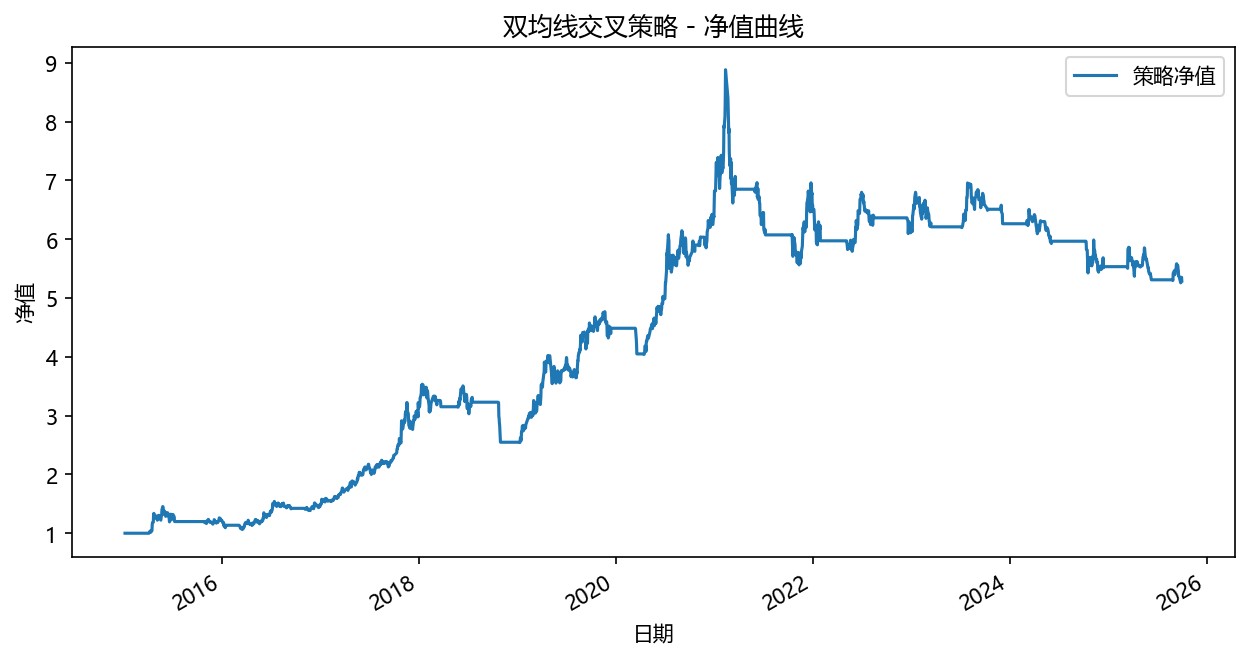
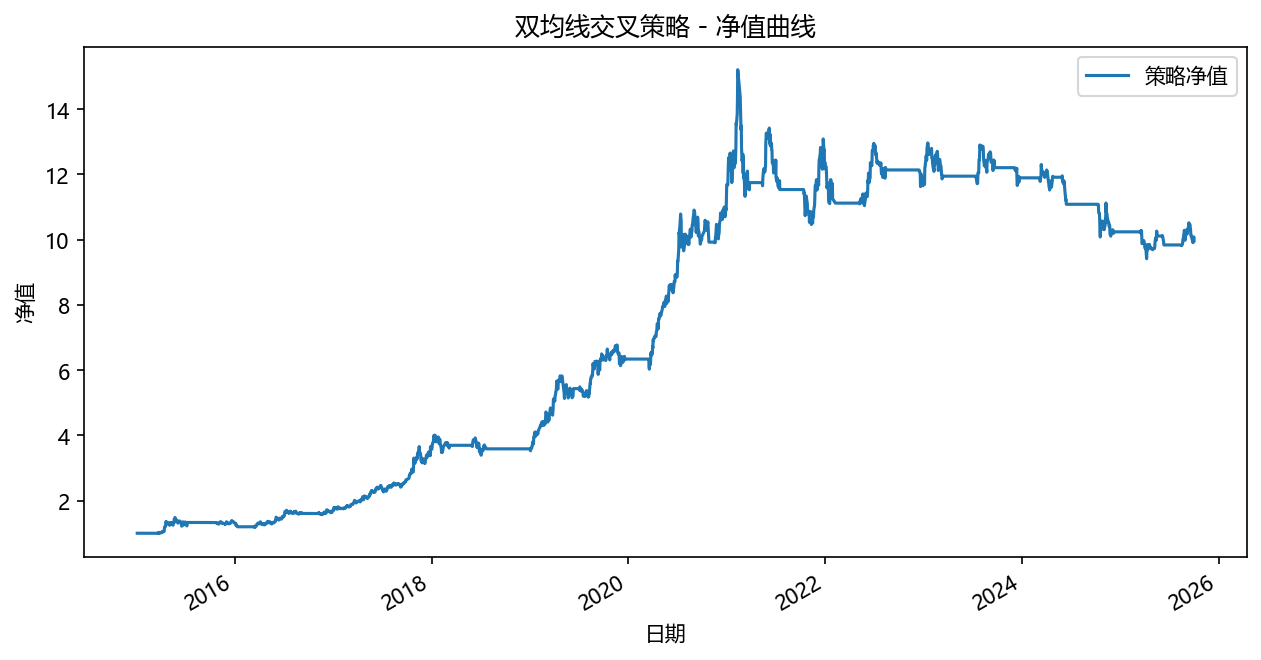
Upgrade SMA crossover strategy

diff --git a/src/runner.py b/src/runner.py
@@ -13,6 +13,7 @@ from .strategies import (
     weights_momentum_rotation,
     weights_momentum_low_vol_score,
     weights_risk_parity,
+    weights_enhanced_sma_crossover,
     weights_sma_crossover,
     weights_trend_filtered_momentum,
 )
@@ -31,6 +32,7 @@ def _baseline_nav(cfg: BacktestConfig, index) -> pd.Series:
 def run_sma(cfg: BacktestConfig):
     params = cfg.strategies.get("sma", {})
     s = get_close_series(cfg.baseline, start=cfg.start, end=cfg.end, adjust=cfg.adjust, cache_dir=cfg.cache_dir)
+    run_sma_grid_search(cfg, s)
     w = weights_sma_crossover(
         s,
         short_window=params.get("short_window", 20),
@@ -44,6 +46,65 @@ def run_sma(cfg: BacktestConfig):
     met = summary_table(res)
     met.to_csv(os.path.join(cfg.output_rep_dir, "sma_指标.csv"), index=False, encoding="utf-8-sig")
     return res, met
+
+
+def run_sma_grid_search(cfg: BacktestConfig, close: pd.Series) -> pd.DataFrame | None:
+    params = cfg.strategies.get("sma", {})
+    grid = params.get("grid_search", {})
+    if not grid.get("enabled", False):
+        return None
+
+    close_df = pd.concat([close, pd.Series(1.0, index=close.index, name="CASH")], axis=1)
+    rows = []
+    for short_window in grid.get("short_windows", [10, 20, 30]):
+        for long_window in grid.get("long_windows", [50, 60, 120]):
+            if short_window >= long_window:
+                continue
+            weights = weights_sma_crossover(close, short_window=short_window, long_window=long_window)
+            result = backtest_weights(close_df, weights, cost_bps=cfg.cost_bps)
+            metrics = summary_table(result).iloc[0].to_dict()
+            metrics.update({"短均线": short_window, "长均线": long_window})
+            rows.append(metrics)
+
+    if not rows:
+        return None
+
+    report = pd.DataFrame(rows)
+    objective = grid.get("objective", "夏普比率")
+    if objective in report.columns:
+        report = report.sort_values(objective, ascending=False)
+    report = report[["短均线", "长均线"] + [c for c in report.columns if c not in ["短均线", "长均线"]]]
+    report.to_csv(os.path.join(cfg.output_rep_dir, "双均线_参数扫描.csv"), index=False, encoding="utf-8-sig")
+    return report
+
+
+def run_enhanced_sma(cfg: BacktestConfig):
+    params = cfg.strategies.get("enhanced_sma", {})
+    s = get_close_series(cfg.baseline, start=cfg.start, end=cfg.end, adjust=cfg.adjust, cache_dir=cfg.cache_dir)
+    w = weights_enhanced_sma_crossover(
+        s,
+        short_window=params.get("short_window", 20),
+        long_window=params.get("long_window", 60),
+        band=params.get("band", 0.01),
+        confirm_days=params.get("confirm_days", 3),
+        require_long_ma_rising=params.get("require_long_ma_rising", True),
+        slope_window=params.get("slope_window", 5),
+        stop_loss_pct=params.get("stop_loss_pct", 0.08),
+        trailing_stop_pct=params.get("trailing_stop_pct", 0.12),
+        target_vol=params.get("target_vol", 0.18),
+        vol_lookback=params.get("vol_lookback", 20),
+        max_position=params.get("max_position", 1.0),
+    )
+    close = pd.concat([s, pd.Series(1.0, index=s.index, name="CASH")], axis=1)
+    res = backtest_weights(close, w, cost_bps=cfg.cost_bps)
+    _, dd = max_drawdown(res["nav"])
+    plot_equity(res["nav"], save_path=os.path.join(cfg.output_fig_dir, "增强双均线_净值.png"), title="增强双均线策略 - 净值曲线")
+    plot_drawdown(dd, save_path=os.path.join(cfg.output_fig_dir, "增强双均线_回撤.png"), title="增强双均线策略 - 回撤曲线")
+    plot_weights_area(w, save_path=os.path.join(cfg.output_fig_dir, "增强双均线_仓位.png"), title="增强双均线仓位")
+    plot_monthly_heatmap(monthly_returns(res["port_ret"]), save_path=os.path.join(cfg.output_fig_dir, "增强双均线_月度收益热力图.png"))
+    met = summary_table(res)
+    met.to_csv(os.path.join(cfg.output_rep_dir, "增强双均线_指标.csv"), index=False, encoding="utf-8-sig")
+    return res, met, w
 
 
 def run_momentum(cfg: BacktestConfig, close_panel=None):
@@ -173,6 +234,9 @@ def run_backtest(cfg: BacktestConfig) -> pd.DataFrame:
     if _strategy_enabled(cfg, "sma"):
         _, sma_met = run_sma(cfg)
         metrics.append(sma_met.assign(策略="双均线交叉"))
+    if _strategy_enabled(cfg, "enhanced_sma"):
+        _, enhanced_sma_met, _ = run_enhanced_sma(cfg)
+        metrics.append(enhanced_sma_met.assign(策略="增强双均线"))
     if _strategy_enabled(cfg, "momentum"):
         _, mom_met, _ = run_momentum(cfg, panel)
         metrics.append(mom_met.assign(策略="12-1动量"))

diff --git a/src/strategies.py b/src/strategies.py
@@ -14,6 +14,76 @@ def weights_sma_crossover(close: pd.Series, short_window=SMA_SHORT, long_window=
     w.rename(columns={"ASSET": s.name}, inplace=True)
     return w[[s.name, "CASH"]]
 
+
+def weights_enhanced_sma_crossover(
+    close: pd.Series,
+    short_window=SMA_SHORT,
+    long_window=SMA_LONG,
+    band=0.01,
+    confirm_days=3,
+    require_long_ma_rising=True,
+    slope_window=5,
+    stop_loss_pct=0.08,
+    trailing_stop_pct=0.12,
+    target_vol=0.18,
+    vol_lookback=20,
+    max_position=1.0,
+) -> pd.DataFrame:
+    s = close.dropna()
+    ma_s = s.rolling(short_window).mean()
+    ma_l = s.rolling(long_window).mean()
+    ret = s.pct_change()
+    ann_vol = ret.rolling(vol_lookback).std() * np.sqrt(252)
+
+    above_band = ma_s > ma_l * (1.0 + band)
+    below_band = ma_s < ma_l * (1.0 - band)
+    if require_long_ma_rising:
+        trend_ok = ma_l > ma_l.shift(slope_window)
+    else:
+        trend_ok = pd.Series(True, index=s.index)
+
+    entry_signal = (above_band & trend_ok).fillna(False)
+    exit_signal = (below_band | ~trend_ok).fillna(False)
+
+    confirm_days = max(1, int(confirm_days))
+    asset_weights = []
+    in_position = False
+    confirmed = 0
+    entry_price = np.nan
+    peak_price = np.nan
+
+    for dt, price in s.items():
+        if in_position:
+            peak_price = max(peak_price, price)
+            stop_hit = stop_loss_pct is not None and price <= entry_price * (1.0 - stop_loss_pct)
+            trail_hit = trailing_stop_pct is not None and price <= peak_price * (1.0 - trailing_stop_pct)
+            if exit_signal.loc[dt] or stop_hit or trail_hit:
+                in_position = False
+                confirmed = 0
+                entry_price = np.nan
+                peak_price = np.nan
+        else:
+            confirmed = confirmed + 1 if entry_signal.loc[dt] else 0
+            if confirmed >= confirm_days:
+                in_position = True
+                entry_price = price
+                peak_price = price
+
+        if not in_position:
+            asset_weights.append(0.0)
+            continue
+
+        weight = max_position
+        vol = ann_vol.loc[dt]
+        if target_vol is not None and pd.notna(vol) and vol > 0:
+            weight = min(max_position, target_vol / vol)
+        asset_weights.append(float(max(0.0, min(max_position, weight))))
+
+    asset_weight = pd.Series(asset_weights, index=s.index, name=s.name)
+    w = pd.DataFrame({s.name: asset_weight, "CASH": 1.0 - asset_weight})
+    return w[[s.name, "CASH"]]
+
+
 def _mom_score(prices: pd.DataFrame, lookback=12, skip=1):
     m = prices.resample("ME").last().dropna(how="all")
     return m.shift(skip) / m.shift(lookback) - 1.0

diff --git a/src/config_loader.py b/src/config_loader.py
@@ -6,6 +6,16 @@ import yaml
 from . import config as defaults
 
 
+def _deep_merge(base: dict, override: dict) -> dict:
+    merged = base.copy()
+    for key, value in override.items():
+        if isinstance(value, dict) and isinstance(merged.get(key), dict):
+            merged[key] = _deep_merge(merged[key], value)
+        else:
+            merged[key] = value
+    return merged
+
+
 @dataclass
 class BacktestConfig:
     assets: list[str] = field(default_factory=lambda: list(defaults.ASSETS_MOMENTUM))
@@ -17,7 +27,31 @@ class BacktestConfig:
     output_dir: str = "output"
     adjust: str = "qfq"
     strategies: dict = field(default_factory=lambda: {
-        "sma": {"enabled": True, "short_window": defaults.SMA_SHORT, "long_window": defaults.SMA_LONG},
+        "sma": {
+            "enabled": True,
+            "short_window": defaults.SMA_SHORT,
+            "long_window": defaults.SMA_LONG,
+            "grid_search": {
+                "enabled": True,
+                "short_windows": [10, 20, 30],
+                "long_windows": [50, 60, 120],
+                "objective": "夏普比率",
+            },
+        },
+        "enhanced_sma": {
+            "enabled": True,
+            "short_window": defaults.SMA_SHORT,
+            "long_window": defaults.SMA_LONG,
+            "band": 0.01,
+            "confirm_days": 3,
+            "require_long_ma_rising": True,
+            "slope_window": 5,
+            "stop_loss_pct": 0.08,
+            "trailing_stop_pct": 0.12,
+            "target_vol": 0.18,
+            "vol_lookback": 20,
+            "max_position": 1.0,
+        },
         "momentum": {"enabled": True, "lookback": defaults.MOM_LOOKBACK, "skip": defaults.MOM_SKIP, "top_n": defaults.MOM_TOP_N},
         "trend_momentum": {"enabled": True, "lookback": defaults.MOM_LOOKBACK, "skip": defaults.MOM_SKIP, "top_n": defaults.MOM_TOP_N, "min_score": 0.0, "vol_lookback": 60},
         "multi_factor": {"enabled": True, "momentum_lookback": defaults.MOM_LOOKBACK, "momentum_skip": defaults.MOM_SKIP, "vol_lookback": 60, "top_n": defaults.MOM_TOP_N, "momentum_weight": 0.6},
@@ -49,7 +83,7 @@ def load_config(path: str | None = None) -> BacktestConfig:
     if "strategies" in raw:
         merged = cfg.strategies.copy()
         for name, value in (raw["strategies"] or {}).items():
-            merged[name] = {**merged.get(name, {}), **(value or {})}
+            merged[name] = _deep_merge(merged.get(name, {}), value or {})
         cfg.strategies = merged
 
     return cfg

diff --git a/tests/test_strategies.py b/tests/test_strategies.py
@@ -2,6 +2,7 @@ import pandas as pd
 
 from src.strategies import _mom_score, weights_momentum_rotation
 from src.strategies import (
+    weights_enhanced_sma_crossover,
     weights_momentum_low_vol_score,
     weights_risk_parity,
     weights_sma_crossover,
@@ -121,3 +122,64 @@ def test_sma_crossover_accepts_custom_windows():
     weights = weights_sma_crossover(close, short_window=2, long_window=3)
 
     assert weights.loc[dates[-1], "AAA"] == 1.0
+
+
+def test_enhanced_sma_requires_confirmed_breakout():
+    dates = pd.date_range("2024-01-01", periods=8, freq="D")
+    close = pd.Series([10.0, 10.0, 10.0, 10.0, 11.0, 12.0, 13.0, 14.0], index=dates, name="AAA")
+
+    weights = weights_enhanced_sma_crossover(
+        close,
+        short_window=2,
+        long_window=3,
+        band=0.0,
+        confirm_days=2,
+        require_long_ma_rising=False,
+        stop_loss_pct=None,
+        trailing_stop_pct=None,
+        target_vol=None,
+    )
+
+    assert weights.loc[dates[4], "AAA"] == 0.0
+    assert weights.loc[dates[5], "AAA"] == 1.0
+
+
+def test_enhanced_sma_trailing_stop_moves_to_cash():
+    dates = pd.date_range("2024-01-01", periods=10, freq="D")
+    close = pd.Series([10.0, 10.0, 10.0, 11.0, 12.0, 13.0, 14.0, 12.0, 11.0, 10.0], index=dates, name="AAA")
+
+    weights = weights_enhanced_sma_crossover(
+        close,
+        short_window=2,
+        long_window=3,
+        band=0.0,
+        confirm_days=1,
+        require_long_ma_rising=False,
+        stop_loss_pct=None,
+        trailing_stop_pct=0.1,
+        target_vol=None,
+    )
+
+    assert weights.loc[dates[6], "AAA"] == 1.0
+    assert weights.loc[dates[7], "AAA"] == 0.0
+
+
+def test_enhanced_sma_can_scale_position_by_volatility():
+    dates = pd.date_range("2024-01-01", periods=12, freq="D")
+    close = pd.Series([10.0, 10.0, 11.0, 9.0, 12.0, 10.0, 13.0, 11.0, 14.0, 12.0, 15.0, 17.0], index=dates, name="AAA")
+
+    weights = weights_enhanced_sma_crossover(
+        close,
+        short_window=2,
+        long_window=3,
+        band=0.0,
+        confirm_days=1,
+        require_long_ma_rising=False,
+        stop_loss_pct=None,
+        trailing_stop_pct=None,
+        target_vol=0.1,
+        vol_lookback=3,
+        max_position=1.0,
+    )
+
+    assert 0.0 < weights.loc[dates[-1], "AAA"] < 1.0

diff --git a/tests/test_config_loader.py b/tests/test_config_loader.py
@@ -12,6 +12,9 @@ assets:
 baseline: 510300.SH
 output_dir: output/test
 strategies:
+  sma:
+    grid_search:
+      objective: 年化收益率
   momentum:
     top_n: 1
   low_volatility:
@@ -27,6 +30,10 @@ strategies:
     assert Path(cfg.output_fig_dir).parts[-3:] == ("output", "test", "figures")
     assert cfg.strategies["momentum"]["lookback"] == 12
     assert cfg.strategies["momentum"]["top_n"] == 1
+    assert cfg.strategies["sma"]["grid_search"]["enabled"] is True
+    assert cfg.strategies["sma"]["grid_search"]["short_windows"] == [10, 20, 30]
+    assert cfg.strategies["sma"]["grid_search"]["objective"] == "年化收益率"
+    assert cfg.strategies["enhanced_sma"]["confirm_days"] == 3
     assert cfg.strategies["low_volatility"]["enabled"] is False
     assert cfg.strategies["trend_momentum"]["min_score"] == 0.0
     assert cfg.strategies["multi_factor"]["momentum_weight"] == 0.6

diff --git a/main.py b/main.py
@@ -2,4 +2,4 @@ from src.runner import main
 
 
 if __name__ == "__main__":
-    main()
+    main("configs/demo.yaml")

diff --git a/README.md b/README.md
@@ -13,7 +13,7 @@
 - 前复权行情默认处理，减少价格跳变对回测的影响
 - YAML 配置驱动，股票池、基准、时间区间、手续费和策略参数都可修改
 - 命令行入口，支持快速覆盖输出目录、起止日期和股票池
-- 策略示例：双均线择时、12-1 动量轮动、趋势过滤动量、动量低波多因子、低波动组合、风险平价
+- 策略示例：双均线择时、增强双均线、12-1 动量轮动、趋势过滤动量、动量低波多因子、低波动组合、风险平价
 - 成本模型：按换手率扣减交易成本
 - 输出净值、回撤、超额收益、持仓权重、月度收益热力图
 - 关键指标汇总：年化收益率、年化波动率、夏普比率、最大回撤、卡玛比率、胜率、换手率
@@ -76,6 +76,24 @@ start: "2015-01-01"
 cost_bps: 10
 
 strategies:
+  sma:
+    enabled: true
+    short_window: 30
+    long_window: 50
+    grid_search:
+      enabled: true
+      short_windows: [10, 20, 30]
+      long_windows: [50, 60, 120]
+      objective: 夏普比率
+  enhanced_sma:
+    enabled: true
+    short_window: 30
+    long_window: 50
+    band: 0.01
+    confirm_days: 3
+    stop_loss_pct: 0.08
+    trailing_stop_pct: 0.12
+    target_vol: 0.18
   momentum:
     enabled: true
     lookback: 12
@@ -102,6 +120,17 @@ strategies:
 ### 双均线交叉
 
 短期均线向上突破长期均线时持有标的，否则切换为空仓现金。适合展示趋势跟随和择时逻辑。
+
+### 增强双均线
+
+在普通双均线基础上加入多层风控：
+
+- 突破阈值带：短均线必须超过长均线一定比例，减少噪音假突破
+- 连续确认：突破需要持续若干天才进场，避免单日脉冲
+- 长均线趋势过滤：长均线走平或下行时不轻易做多
+- 固定止损和移动止损：控制单次错误信号的损失
+- 波动率目标仓位：波动率高时自动降仓，波动率低时保持更高仓位
+- 参数扫描：输出 `双均线_参数扫描.csv`，用于比较不同短/长均线组合
 
 ### 12-1 动量轮动
 
